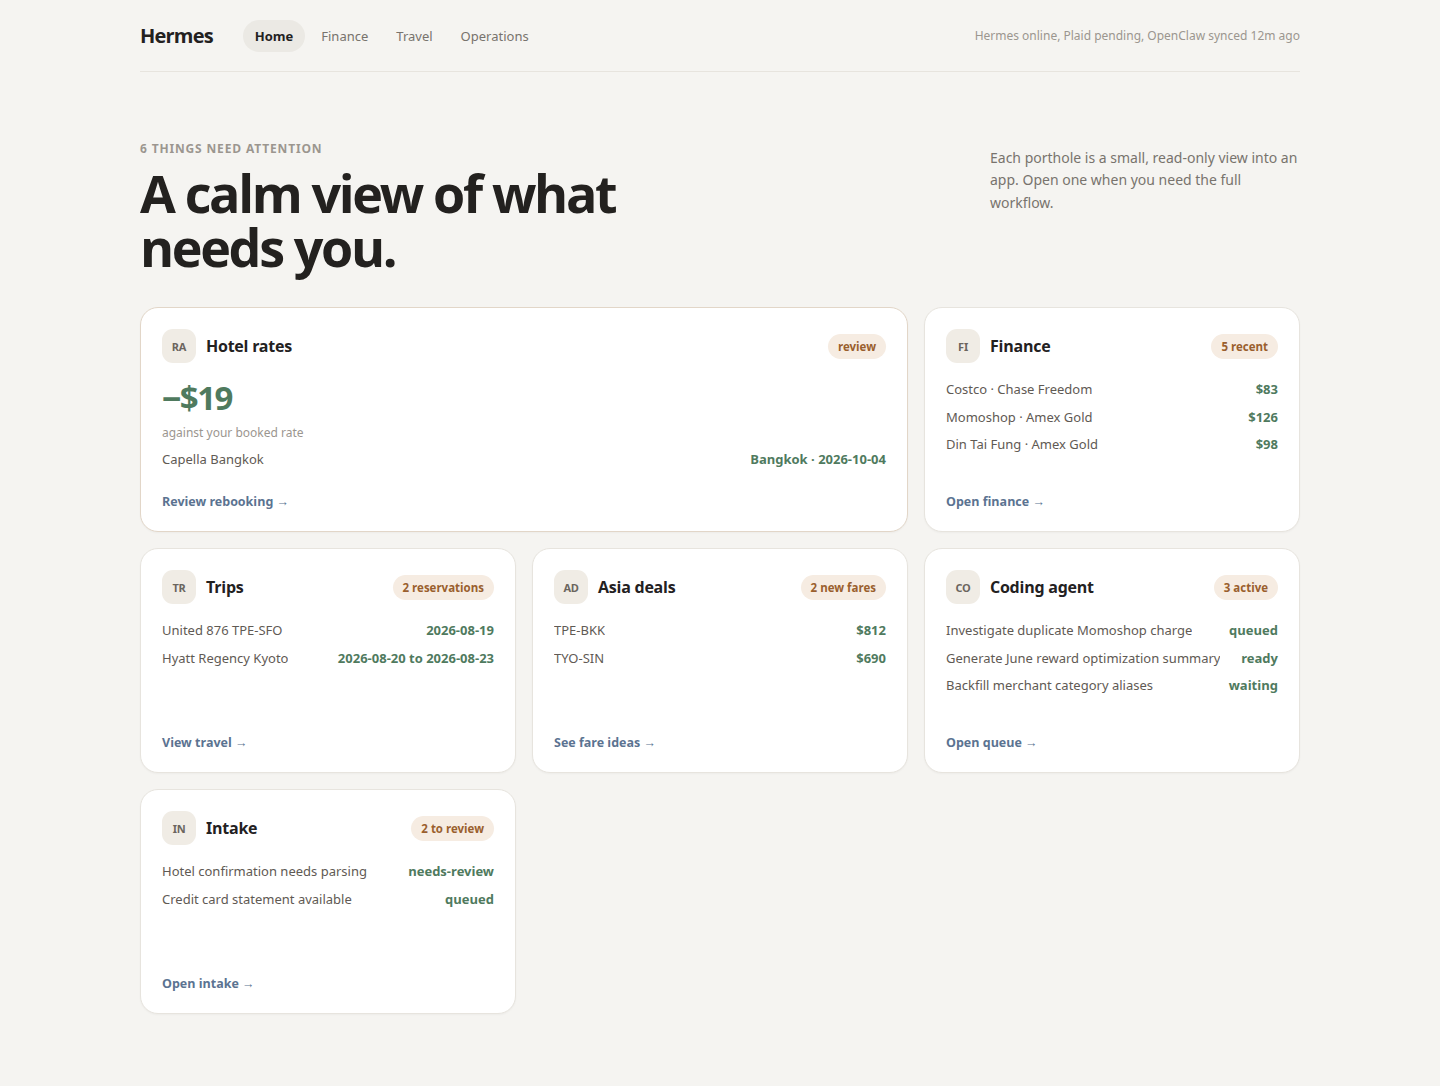
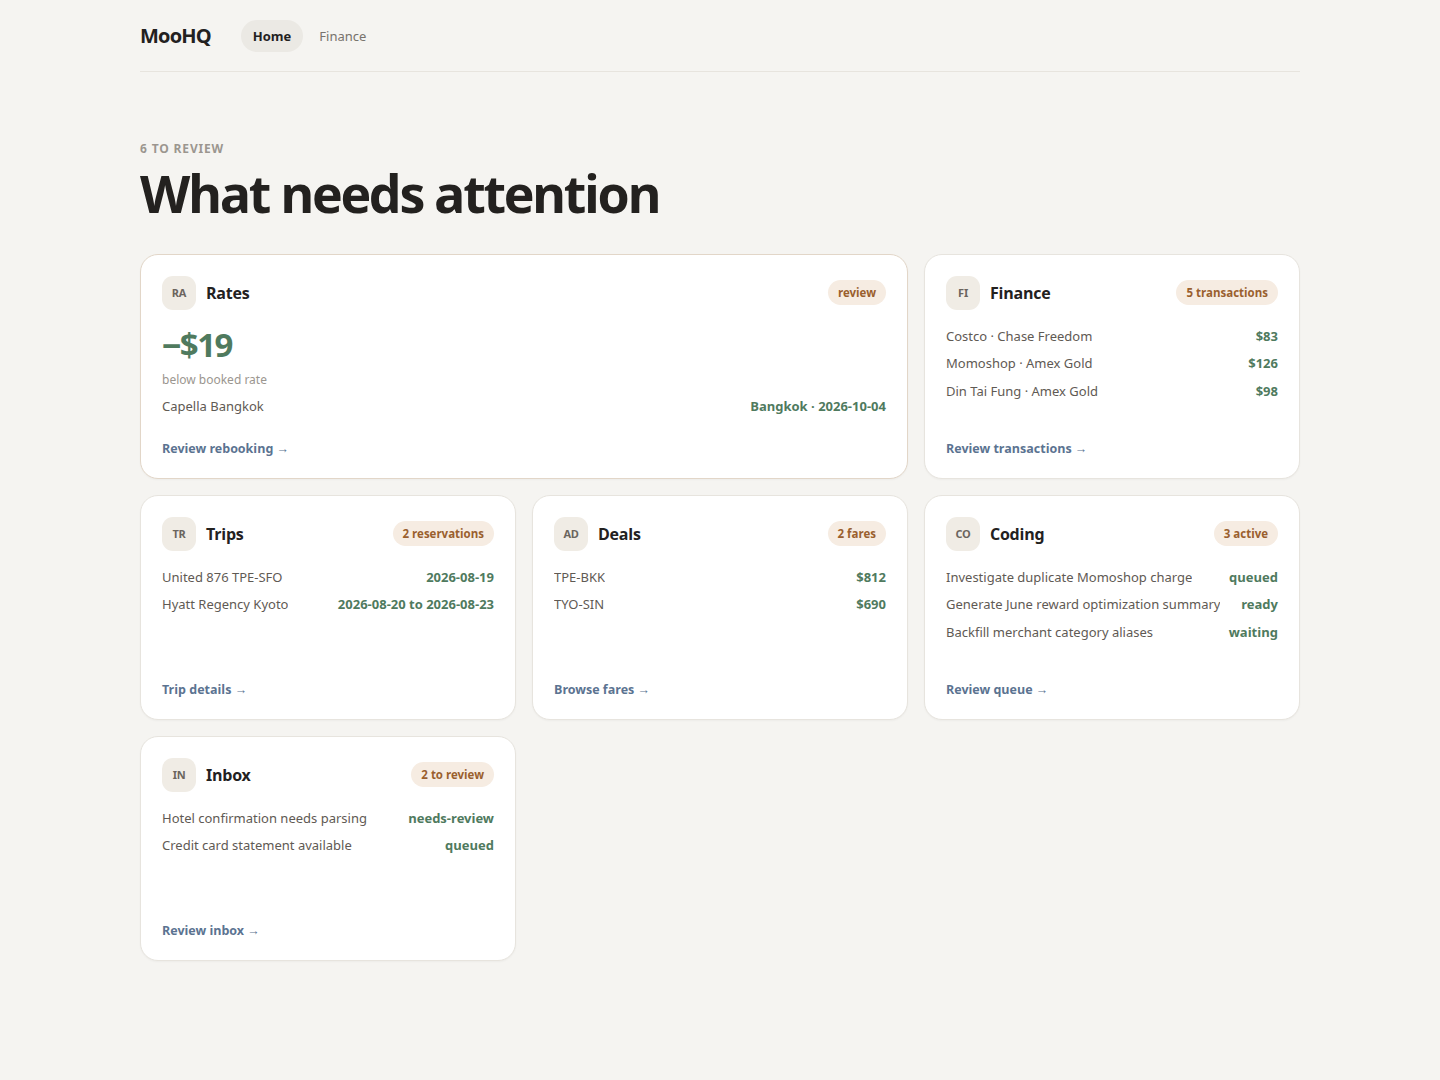
Refine MooHQ dashboard copy

diff --git a/apps/web/src/home.js b/apps/web/src/home.js
@@ -60,22 +60,20 @@ function render(dashboard) {
   const attention =
     alerts.length + rateDrops.length + tasks.filter((task) => task.state !== "done").length;
 
-  document.querySelector("#freshness").textContent =
-    dashboard.health?.summary ?? "Workspace synced";
   document.querySelector("#today").textContent = attention
-    ? `${attention} things need attention`
-    : "Your workspace is quiet";
+    ? `${attention} to review`
+    : "All caught up";
   document.querySelector("#portholes").innerHTML = [
     appCard({
-      name: "Hotel rates",
+      name: "Rates",
       mark: "RA",
       featured: true,
       state: rate ? "attention" : "quiet",
       badge: rate ? "review" : `${hotelWatches.length} watches`,
       href: "#travel",
-      footer: rate ? "Review rebooking" : "Open rate watches",
+      footer: rate ? "Review rebooking" : "Rate watches",
       body: rate
-        ? `<div class="headline-metric">−${money.format(rate.targetRate - rate.bestRate)}</div><span class="muted">against your booked rate</span>${rows([{ label: rate.property, meta: `${rate.location} · ${rate.checkIn}` }], "")}`
+        ? `<div class="headline-metric">−${money.format(rate.targetRate - rate.bestRate)}</div><span class="muted">below booked rate</span>${rows([{ label: rate.property, meta: `${rate.location} · ${rate.checkIn}` }], "")}`
         : rows(
             hotelWatches.map((watch) => ({ label: watch.property, meta: watch.status })),
             "No active rate watches."
@@ -85,49 +83,49 @@ function render(dashboard) {
       name: "Finance",
       mark: "FI",
       href: "/finance",
-      badge: `${transactions.length} recent`,
-      footer: "Open finance",
-      body: rows(financeRows, "No transactions are available yet.")
+      badge: `${transactions.length} transactions`,
+      footer: "Review transactions",
+      body: rows(financeRows, "No transactions yet.")
     }),
     appCard({
       name: "Trips",
       mark: "TR",
       href: "#travel",
       badge: `${(travel.reservations ?? []).length} reservations`,
-      footer: "View travel",
+      footer: "Trip details",
       body: rows(
         (travel.reservations ?? []).map((item) => ({ label: item.title, meta: item.dates })),
-        "No trips need attention."
+        "No upcoming trips."
       )
     }),
     appCard({
-      name: "Asia deals",
+      name: "Deals",
       mark: "AD",
       href: "#travel",
-      badge: deals.length ? `${deals.length} new fares` : "quiet",
-      footer: "See fare ideas",
+      badge: deals.length ? `${deals.length} fares` : "quiet",
+      footer: "Browse fares",
       body: rows(
         deals.map((deal) => ({ label: deal.route, meta: money.format(deal.price) })),
-        "No fare candidates right now."
+        "No fare candidates."
       )
     }),
     appCard({
-      name: "Coding agent",
+      name: "Coding",
       mark: "CO",
       href: "#operations",
       badge: tasks.length ? `${tasks.length} active` : "quiet",
-      footer: "Open queue",
+      footer: "Review queue",
       body: rows(
         tasks.map((task) => ({ label: task.title, meta: task.state })),
-        "Nothing is running."
+        "Nothing running."
       )
     }),
     appCard({
-      name: "Intake",
+      name: "Inbox",
       mark: "IN",
       href: "#operations",
       badge: intake.length ? `${intake.length} to review` : "quiet",
-      footer: "Open intake",
+      footer: "Review inbox",
       body: rows(
         intake.map((item) => ({ label: item.title, meta: item.state })),
         "Inbox is clear."
@@ -144,7 +142,7 @@ async function main() {
     if (!response.ok) throw new Error("Dashboard data is unavailable");
     render(await response.json());
   } catch (error) {
-    document.querySelector("#freshness").textContent = "Dashboard unavailable";
+    document.querySelector("#today").textContent = "Dashboard unavailable";
     document.querySelector("#portholes").innerHTML =
       `<p class="empty">${escapeHtml(error instanceof Error ? error.message : error)}</p>`;
   }

diff --git a/apps/web/home.html b/apps/web/home.html
@@ -3,28 +3,24 @@
   <head>
     <meta charset="utf-8">
     <meta name="viewport" content="width=device-width, initial-scale=1">
-    <title>Hermes Dashboard</title>
+    <title>MooHQ</title>
     <link rel="stylesheet" href="/src/home.css">
   </head>
   <body>
     <main class="home-shell">
       <header class="home-nav">
-        <a class="wordmark" href="/" aria-label="Hermes Dashboard home">Hermes</a>
+        <a class="wordmark" href="/" aria-label="MooHQ home">MooHQ</a>
         <nav aria-label="Applications">
           <a class="active" href="/">Home</a>
           <a href="/finance">Finance</a>
-          <a href="#travel">Travel</a>
-          <a href="#operations">Operations</a>
         </nav>
-        <p class="freshness" id="freshness">Loading workspace</p>
       </header>
 
       <section class="intro" aria-labelledby="home-title">
         <div>
-          <p class="kicker" id="today">Your workspace</p>
-          <h1 id="home-title">A calm view of what needs you.</h1>
+          <p class="kicker" id="today">Dashboard</p>
+          <h1 id="home-title">What needs attention</h1>
         </div>
-        <p>Each porthole is a small, read-only view into an app. Open one when you need the full workflow.</p>
       </section>
 
       <section class="porthole-grid" id="portholes" aria-label="Application portholes" aria-live="polite">

diff --git a/apps/web/src/home.css b/apps/web/src/home.css
@@ -66,13 +66,6 @@ a {
   color: var(--ink);
   font-weight: 600;
 }
-.freshness {
-  margin: 0 0 0 auto;
-  color: var(--faint);
-  font-size: 12px;
-  font-variant-numeric: tabular-nums;
-}
-
 .intro {
   display: flex;
   justify-content: space-between;
@@ -95,14 +88,6 @@ h1 {
   letter-spacing: -0.045em;
   line-height: 1.03;
 }
-.intro > p {
-  max-width: 310px;
-  margin: 7px 0 0;
-  color: var(--muted);
-  font-size: 14px;
-  line-height: 1.6;
-}
-
 .porthole-grid {
   display: grid;
   grid-template-columns: repeat(3, minmax(0, 1fr));
@@ -244,15 +229,9 @@ a.porthole:hover {
   .home-nav nav {
     overflow-x: auto;
   }
-  .freshness {
-    display: none;
-  }
   .intro {
     display: block;
     padding: 42px 0 28px;
-  }
-  .intro > p {
-    margin-top: 18px;
   }
   .porthole-grid {
     grid-template-columns: 1fr;

diff --git a/apps/web/index.html b/apps/web/index.html
@@ -3,14 +3,14 @@
   <head>
     <meta charset="utf-8">
     <meta name="viewport" content="width=device-width, initial-scale=1">
-    <title>Finance · Hermes Dashboard</title>
+    <title>Finance · MooHQ</title>
     <link rel="stylesheet" href="/src/styles.css">
   </head>
   <body>
     <main class="shell">
       <header class="topbar">
         <div>
-          <p class="eyebrow"><a class="home-link" href="/">Hermes Dashboard</a> / Finance</p>
+          <p class="eyebrow"><a class="home-link" href="/">MooHQ</a> / Finance</p>
           <h1>Cards, banks, and credits</h1>
         </div>
         <div class="status-strip" id="status-strip">
